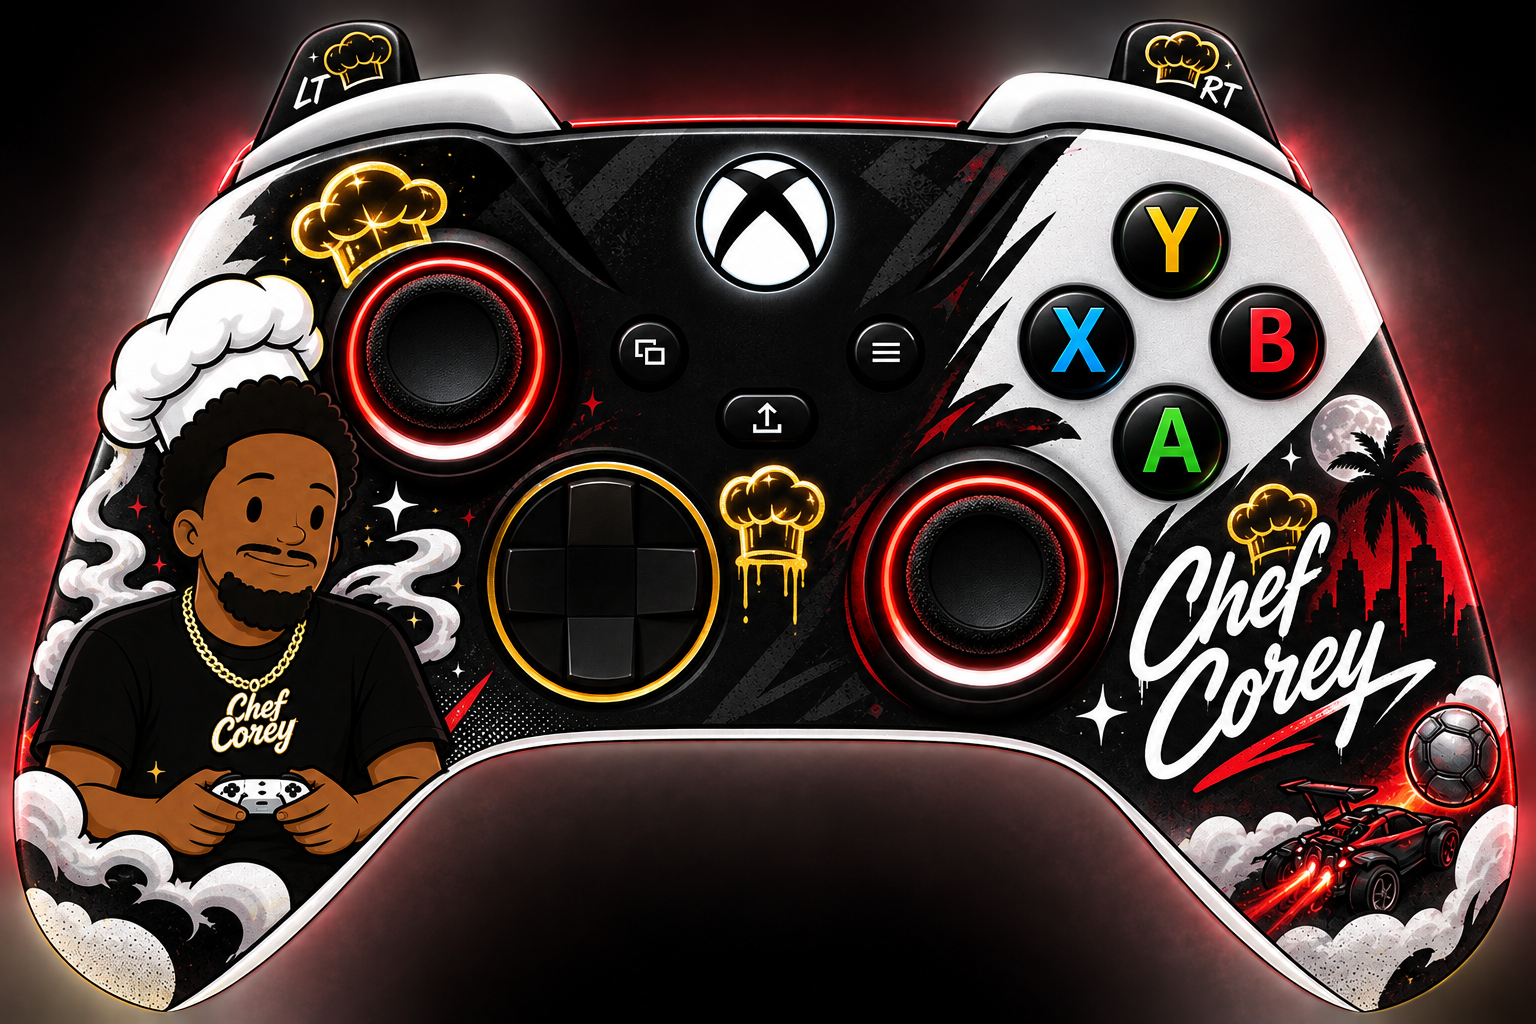
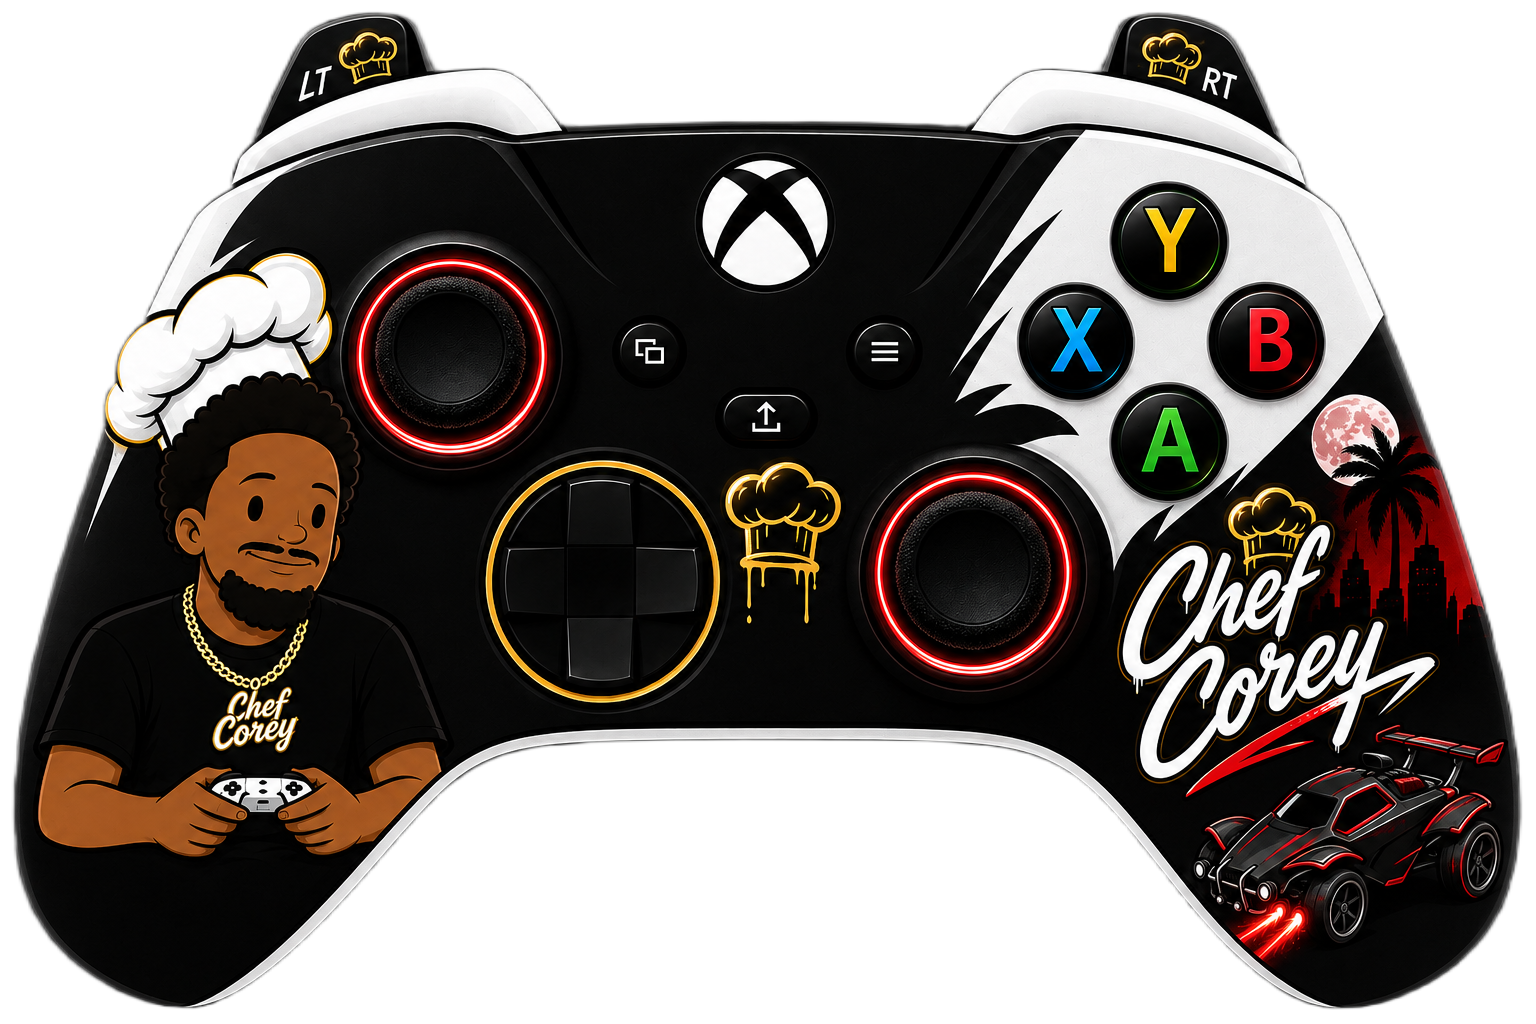
Update v1 controller artwork transparency

diff --git a/README.md b/README.md
@@ -41,6 +41,6 @@ The original artwork’s 3:2 ratio is held by CSS variables. Use a 3:2 OBS Brows
 
 ## Transparency and alignment
 
-The GamePad Viewer page is forced transparent by the skin CSS for OBS. The v1 artwork file itself is an opaque 1536×1024 PNG, including its black outer canvas; it is intentionally preserved unchanged. To make the outer area transparent, use a separately edited transparent-PNG replacement in a future version (for example `skins/v2/assets/...`) rather than altering v1.
+The GamePad Viewer page is forced transparent by the skin CSS for OBS. The v1 artwork is a 1536×1024 PNG with a transparent outer canvas, so it can be used directly in a transparent OBS Browser Source.
 
 For pixel-level alignment, `skins/v1/chef-corey-xbox.css` names every control’s X, Y, width, and height as percentage variables with 1536×1024 reference-pixel comments. Set `--chefcorey-debug: 1` near the top of that file to display bright labeled translucent hitboxes for every control. Reset it to `0` before using the skin in OBS.
